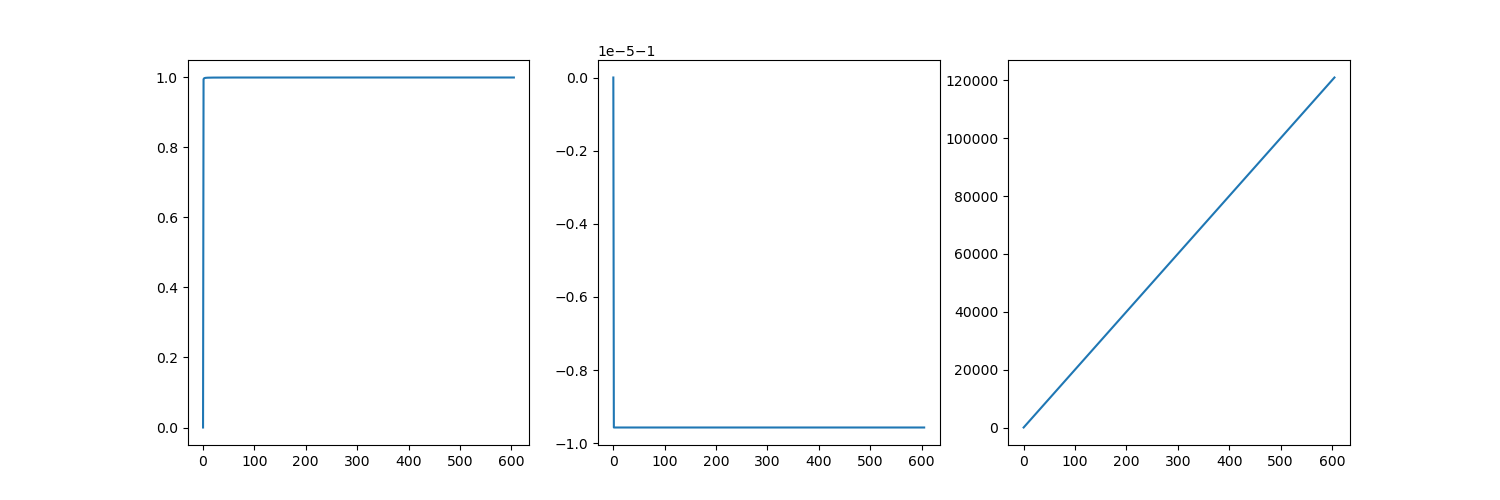
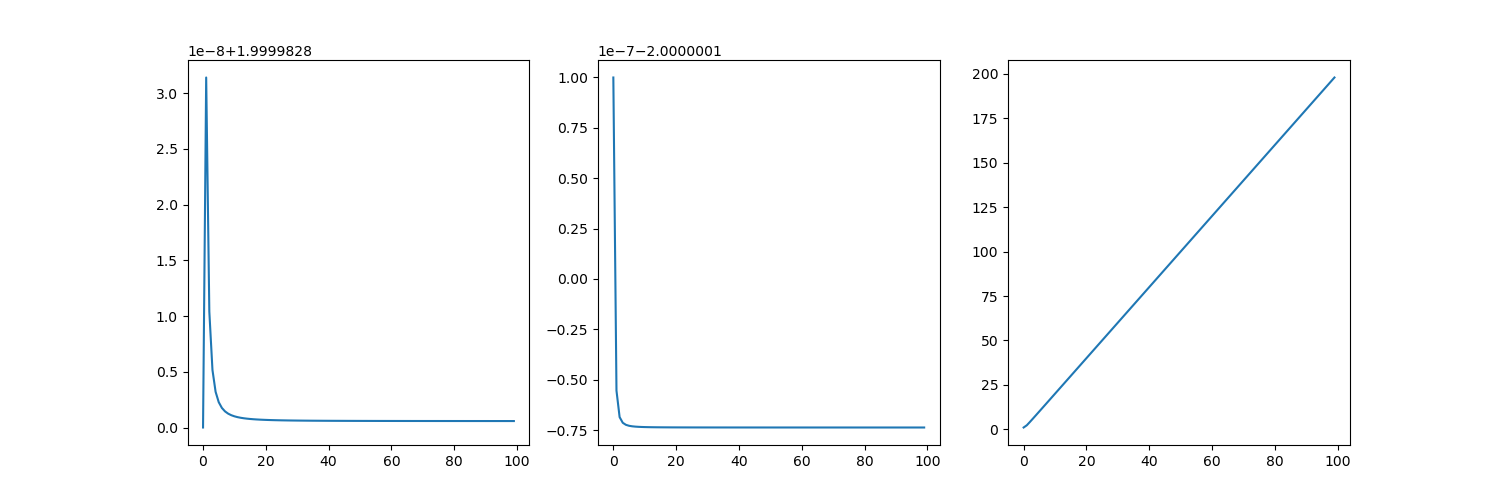
bound binary code

diff --git a/bound_binary.py b/bound_binary.py
@@ -5,6 +5,7 @@ import matplotlib.pyplot as plt
 import pint
 
 ureg = pint.UnitRegistry()
+print(const_G)
 
 
 #generating the boundry size
@@ -62,7 +63,7 @@ class Particles:
 
 # particles = Particles_ini(position=xyz,velocity=v,mass=M)
 
-m = np.array([1,1])
+m = np.array([2,2])
 r = np.array([[0,0,0],[1,0,0]])
 v = np.array([[0,1,0],[0,-1,0]])
 
@@ -84,7 +85,7 @@ def total_energy(masses, positions, velocities):
     rr = np.sqrt(np.sum(del_pos**2))                # Calculate the distance from the particle
     vv = np.sum(velocities**2, axis=1)              # Calculate the magnitude of velocity for each particle
 
-    const_G = 1
+    # const_G = 1
 
     U = -np.sum(const_G*masses[0]*masses[1]/rr)      # Calculate potential energy
     K = np.sum(0.5*masses*vv)                       # Calculate kinetic energy
@@ -129,11 +130,11 @@ def calculate_period(masses,positions,velocities):
 
 from sc_time_evolution import evolve_position, evolve_velocity
 from Force_Nbody import cal_gforce
-# from sc_time_evolution import dt, T, step
+from sc_time_evolution import dt, T, step
 
-dt = 0.1  # Time step in years
-T = 6060 # Total time in years
-step = int(T / dt)  # Number of steps
+#dt = 0.1  # Time step in years
+#T = 6060 # Total time in years
+#step = int(T / dt)  # Number of steps
 
 #define intial condidtions
 energy_list = []
@@ -144,8 +145,10 @@ mass = m
 position = r
 velocity = v
 
-for s in range(step):   # Iterate through each time step
+T,e,b=calculate_period(m,r,v)
 
+for s in range(10000):   # Iterate through each time step
+    # dt,step=set_t(v,a,T)
     if s%100==0:
         energy, distance = total_energy(mass,position,velocity)
         energy_list += [energy]

diff --git a/sc_time_evolution.py b/sc_time_evolution.py
@@ -15,8 +15,8 @@ import matplotlib.pyplot as plt
 # import pint
 
 # Constants
-dt = 1  # Time step in years
-T = 100  # Total time in years
+dt = 0.01  # Time step in years
+T = 10000  # Total time in years
 step = int(T / dt)  # Number of steps
 
 # Particle system dimensions
@@ -26,16 +26,22 @@ v_i = np.ones((3, n))  # Initial velocity (3 coordinates for each particle)
 a_i = np.ones((3, n))  # Initial acceleration (3 coordinates for each particle)
 
 
+def set_t(v,a,T):
+   len_v=np.array([np.linalg.norm(v[i]) for i in range(len(v))])
+   len_a=np.array([np.linalg.norm(a[i]) for i in range(len(a))])
+   dt=1e-3*np.min(len_v)/np.max(len_a)
+   step = int(2*T / dt)
+   return dt,step
 
 # Evolve velocity function
-def evolve_velocity(v, a):
+def evolve_velocity(v, a, dt):
     """Evolves the velocity of each particle.
     Each v_i and a_i is a 3xn numpy array representing x, y, z coordinates for n particles."""
     v_new = v + a * dt  # Update velocity using v = v0 + at
     return v_new        # Return updated velocity
 
 # Evolve position function
-def evolve_position(r, v):
+def evolve_position(r, v, dt):
     """Evolves the position of each particle.
     Each r_i and v_i is a 3xn numpy array representing x, y, z coordinates for n particles."""
     r_new = r + v * dt  # Update position using r = r0 + vt
